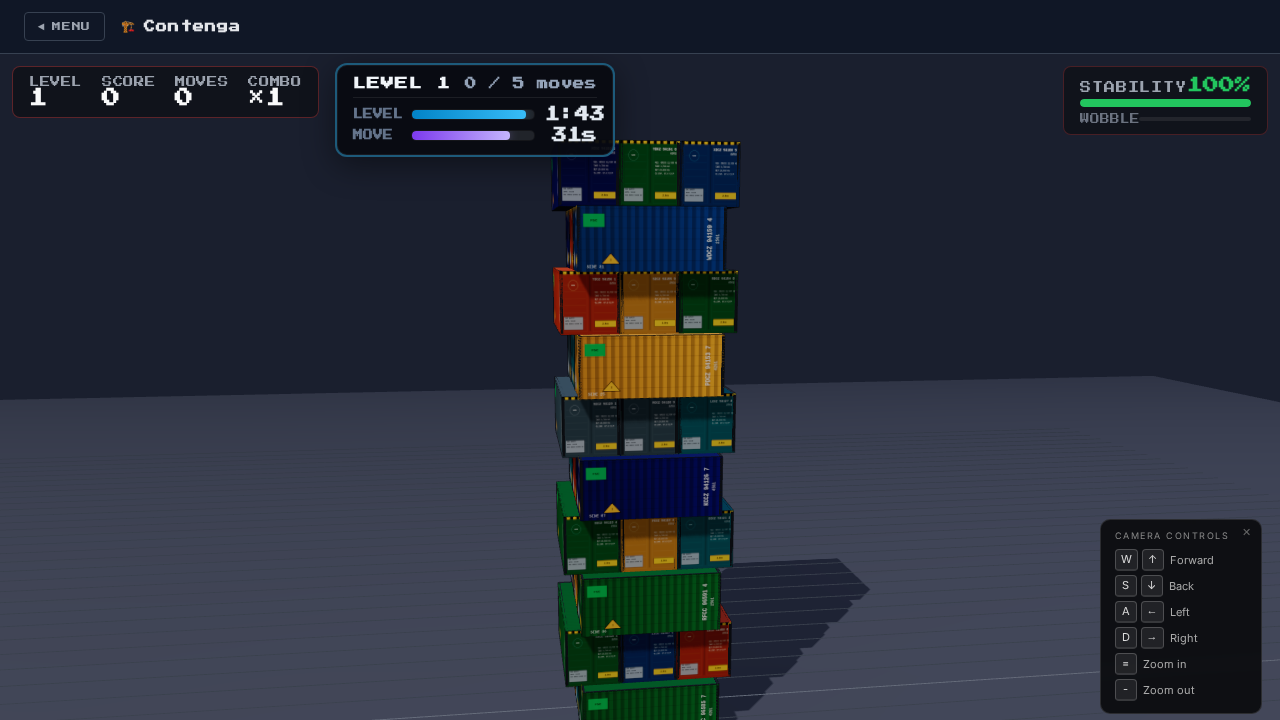
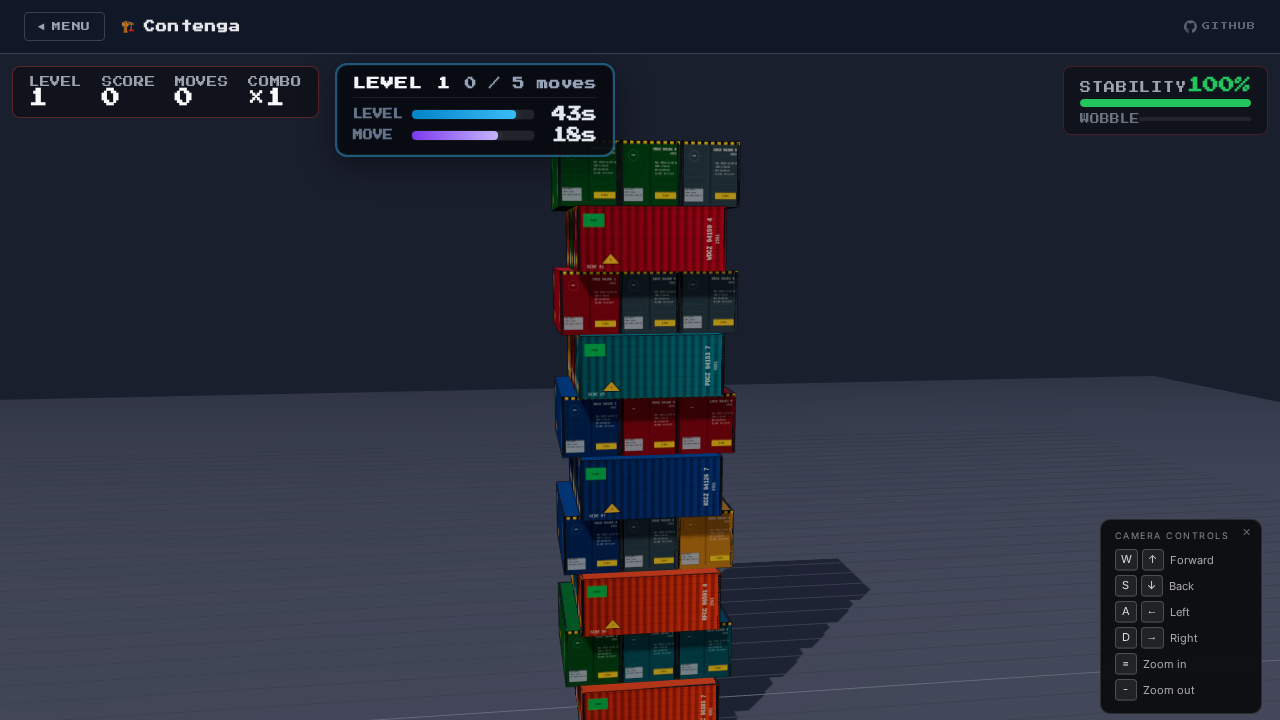
README: stronger intro, AI experiment section, refreshed Stowage screenshot (#19)
* docs: refresh README intro, AI experiment note, and readme media

- Replace top section with clearer pitch for container-games.net hub
- Add four-day agentic-AI experiment section (Claude Code, Cursor, Codex, Copilot)
- Stowage Master screenshot: 15s post-start wait; fix Level 1 button selector
- Regenerate docs/readme screenshots and Contenga GIF from capture script

* updated readme desc

* docs: note no-hand-coding aim in README experiment section

* docs: remove em dashes from README

* Update README.md

---------

Changed region(s): [[0.4062, 0.1222, 0.5938, 1.0], [0.9375, 0.0306, 0.9688, 0.0611], [0.375, 0.1833, 0.4062, 0.2139]]

diff --git a/README.md b/README.md
@@ -1,20 +1,28 @@
 # Shipping Container Sims
 
-**Play free in the browser:** **[container-games.net](https://container-games.net)**
+**Play free in your browser (no install, no signup):** **[container-games.net](https://container-games.net)**
 
-Three shipping-container-themed games in one Vue app: plan vessel loads, balance a physics tower, or run a terminal tycoon. Below is the **home portal** (pick a game), then each title with **gameplay a few seconds after you start** — not the pre-game menu.
+This is a small **Vue 3** hub for three standalone **3D browser games**, all themed around shipping containers. Open the site, choose a card on the home page, and you are in the sim within seconds; everything runs locally in the tab with **WebGL (Three.js)** under the hood.
+
+**What is here**
+
+- **Stowage Master:** a planning puzzle: weight, cargo compatibility, and port rotation on a real bay layout.
+- **Contenga:** a physics stacker: pull and pile containers without collapsing the tower.
+- **Box Empire:** a terminal tycoon: routes, upgrades, fleets, and rivals on a stylised map.
+
+Below you will see the **home portal** first, then each game with **live gameplay** (not the menu). **Stowage Master** is captured **about 15 seconds after** you start Level 1 so the scene and motion read clearly.
 
 ## Main menu
 
-![Home portal — choose a game](docs/readme/home-portal.png)
+![Home portal: choose a game](docs/readme/home-portal.png)
 
 ---
 
 ## Stowage Master
 
-*Tetris meets real-world container logistics — 3D puzzle*
+*Tetris meets real-world container logistics: 3D puzzle*
 
-![Stowage Master — gameplay after starting Level 1](docs/readme/stowage-master-gameplay.png)
+![Stowage Master: gameplay ~15s after starting Level 1](docs/readme/stowage-master-gameplay.png)
 
 **What you do:** Place containers on the ship’s bays with an eye on **weight**, **cargo classes** (what can sit next to what), and **port rotation** (unload in the right order). You’re optimising a real stowage puzzle, not just filling slots.
 
@@ -24,11 +32,11 @@ Three shipping-container-themed games in one Vue app: plan vessel loads, balance
 
 ## Contenga
 
-*Jenga with containers — 3D physics*
+*Jenga with containers: 3D physics*
 
-![Contenga — gameplay after pressing Play](docs/readme/contenga-gameplay.png)
+![Contenga: gameplay after pressing Play](docs/readme/contenga-gameplay.png)
 
-**What you do:** Pull blocks from the stack and **pile them on top** without letting the tower collapse. **Poor support** and bad balance bring the whole thing down — it’s tactile, risky, and very satisfying when it holds.
+**What you do:** Pull blocks from the stack and **pile them on top** without letting the tower collapse. **Poor support** and bad balance bring the whole thing down: it’s tactile, risky, and very satisfying when it holds.
 
 **Vibe:** Quick rounds, physics tension, and “just one more pull.”
 
@@ -36,9 +44,9 @@ Three shipping-container-themed games in one Vue app: plan vessel loads, balance
 
 ## Box Empire
 
-*Terminal tycoon — strategy and economy*
+*Terminal tycoon: strategy and economy*
 
-![Box Empire — gameplay after starting the tutorial](docs/readme/box-empire-gameplay.png)
+![Box Empire: gameplay after starting the tutorial](docs/readme/box-empire-gameplay.png)
 
 **What you do:** Start from a **single container** and grow a **logistics empire**: buy **routes**, **upgrade ports**, manage **fleets**, and stay ahead of **rivals**. Numbers, maps, and narrative beats frame a management sim built around real terminal ideas.
 
@@ -53,7 +61,7 @@ npm install
 npm run dev
 ```
 
-Open `http://localhost:5173/` — the home page lists every sim; open any card to play.
+Open `http://localhost:5173/`. The home page lists every sim; open any card to play.
 
 ```bash
 npm run build      # Production build
@@ -63,19 +71,19 @@ npm run lint:fix   # ESLint with auto-fixes
 
 ### Regenerate README screenshots
 
-Requires a production preview and **ffmpeg** (for the Contenga GIF). Default wait before each gameplay shot is **10 seconds** of real time.
+Requires a production preview and **ffmpeg** (for the Contenga GIF). Default wait is **10 seconds** for Contenga and Box Empire; **Stowage Master** waits **15 seconds** so the README frame shows richer 3D gameplay (override with `STOWAGE_MASTER_WAIT_MS`).
 
 ```bash
 npm run build
 npm run preview -- --host 127.0.0.1 --port 4173
 # in another terminal:
 npm run capture-readme-media
-# optional: BASE_URL=http://127.0.0.1:4173 GAMEPLAY_WAIT_MS=12000 npm run capture-readme-media
+# optional: BASE_URL=http://127.0.0.1:4173 GAMEPLAY_WAIT_MS=12000 STOWAGE_MASTER_WAIT_MS=18000 npm run capture-readme-media
 ```
 
 ## For developers
 
-This repo is a **Vue 3 + TypeScript** app: **Vite**, **Pinia**, **Vue Router**, **Three.js** for 3D sims, **ESLint** for static analysis. Each game lives in its own folder under `src/sims/` and is **auto-discovered** at build time — no manual registration.
+This repo is a **Vue 3 + TypeScript** app: **Vite**, **Pinia**, **Vue Router**, **Three.js** for 3D sims, **ESLint** for static analysis. Each game lives in its own folder under `src/sims/` and is **auto-discovered** at build time (no manual registration).
 
 ### Project structure (summary)
 
@@ -100,7 +108,7 @@ knowledge-base/          # Domain reference (containers, terminals, …)
 ### Core rules
 
 - **Sim isolation:** All game-specific code, components, stores, and media stay under `src/sims/<sim-id>/`. Only truly shared logic belongs in top-level `composables/` or `components/`.
-- **Auto-discovery:** Add `src/sims/<id>/definition.ts` — the home page picks it up via `import.meta.glob`.
+- **Auto-discovery:** Add `src/sims/<id>/definition.ts`; the home page picks it up via `import.meta.glob`.
 - **Style:** Composition API only (`<script setup lang="ts">`), strict TypeScript, scoped styles, design tokens from `src/assets/main.css`.
 
 ### Add a new sim
@@ -110,6 +118,10 @@ knowledge-base/          # Domain reference (containers, terminals, …)
 3. Add the root `YourSim.vue`
 
 Full conventions, 3D patterns, and domain skills: **[AGENTS.md](AGENTS.md)** and **`.ai/skills/`**.
+
+## Experiment: agentic AI and a four-day timebox
+
+This repository was a **personal experiment** to see what could be shipped by leaning on **agentic, AI-assisted development**, combining **Claude Code**, **Cursor AI**, **OpenAI Codex**, and **GitHub Copilot** for iterative, “vibe-coded” building rather than hand-typing every line. Part of the aim was to **avoid writing or reading project code myself**, and see what could still be achieved through prompting and tool-assisted iteration alone. I set a **four-day timebox** for myself and wanted to learn how much of a cohesive, playable browser game collection could land in that window. The stack, structure, and rough edges are honest artefacts of that sprint, not a polished studio roadmap.
 
 ## More resources
 
